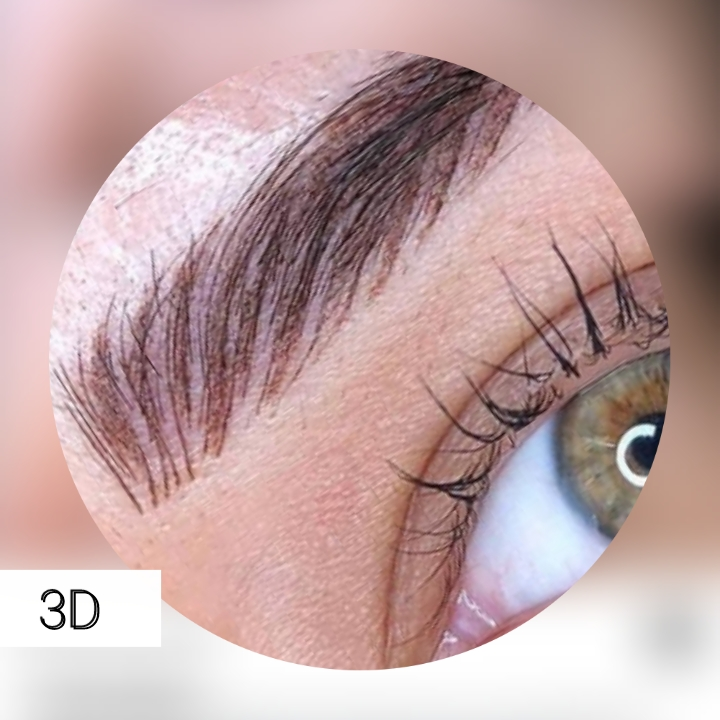
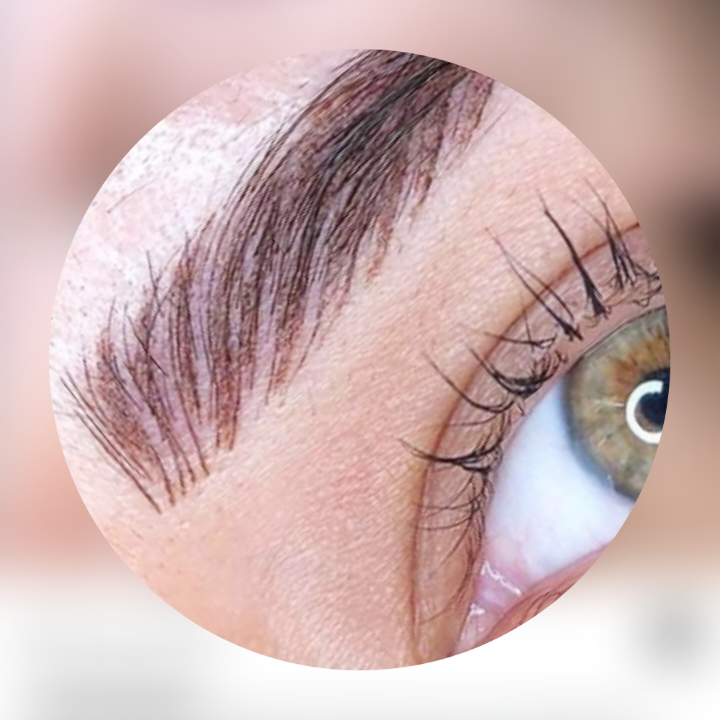
.

diff --git a/index.html b/index.html
@@ -102,9 +102,9 @@ height="0" width="0" style="display:none;visibility:hidden"></iframe></noscript>
       Devido a micropigmentação ser de extrema importância e responsabilidade, sendo fundamental a dedicação e especialização. Pois esse procedimento é delicado e necessita de conhecimento profundo. Além de modificar a aparência exterior do cliente, afetam seu emocional e autoestima. Sendo fundamental o cliente se sentir a vontade e confiante.   Atuo na área de beleza por volta de oito anos.</p>     
     <p>A estética vai muito mais além da beleza!</p>
   </div>
-  <div class="w3-row-padding w3-grayscale">
+  <div class="w3-row-padding">
     <div class="w3-col l3 m6 w3-margin-bottom">
-      <img src="./w3images/perfil_micropigmentacao.png" alt="Pamela Jacqueline" style="width:100%">
+      <img src="./w3images/perfil_micropigmentacao.jpg" alt="Pamela Jacqueline" style="width:100%">
       <h3>Pâmela Jacqueline</h3>
       <p class="w3-opacity">Artista</p>
       <p>Atuo na área de beleza por volta de oito anos. Sou Designer de Sobrancelhas, especialista em Micropigmentação.</p>
@@ -119,7 +119,7 @@ height="0" width="0" style="display:none;visibility:hidden"></iframe></noscript>
     <p>Em meio o excesso de informações que temos na internet , a  merchandising que apresenta nomes diversos para as mesmas técnicas para torná-las mais atrativas, acaba que fica poluído de informações e as clientes ficam perdidas, fica difícil entender e escolher o que realmente vocês querem!</p>
     <p>A micropigmentação cresce cada vez mais de uma forma acelerada e muitas novas técnicas estão sendo desenvolvidas, já a muito tempo saímos do básico que era a famosa sobrancelha "compacta" uma sobrancelha bem escura e bem preenchida. A sobrancelha “esfumada” ainda é muito usada hoje, mas vem sendo aperfeiçoada para um resultado mais natural,  sendo a mais requisitada hoje a "sobrancelha fio a fio".</p>
   </div>
-  <div class="w3-row-padding w3-grayscale">
+  <div class="w3-row-padding">
     <div class="w3-col l3 m6 w3-margin-bottom">
       <img src="./w3images/tecnicas/dermografo-microblading.jpg" alt="Micropigmentação" style="width:100%">
       <h3>Dermógrafo X Microblading</h3>
@@ -151,7 +151,7 @@ height="0" width="0" style="display:none;visibility:hidden"></iframe></noscript>
       <!--p><button class="w3-button w3-light-grey w3-block">Contact</button></p-->
     </div>
   </div>
-  <div class="w3-row-padding w3-grayscale">
+  <div class="w3-row-padding">
     <div class="w3-col l3 m6 w3-margin-bottom">
       <img src="./w3images/tecnicas/degrade-ombre.jpg" alt="Micropigmentação" style="width:100%">
       <h3>Degradê e Ombré</h3>
@@ -193,25 +193,25 @@ height="0" width="0" style="display:none;visibility:hidden"></iframe></noscript>
     <div class="w3-col l3 m6 w3-margin-bottom">
       <div class="w3-display-container">
         <div class="w3-display-topleft w3-black w3-padding">Projeto 1</div>
-        <img src="./w3images/projetos/1556666094050.jpg" alt="Projeto 1" style="width:100%" onclick="clickImageModal(this)">
+        <img src="./w3images/projetos/projeto-1.jpg" alt="Projeto 1" style="width:100%" onclick="clickImageModal(this)">
       </div>
     </div>
     <div class="w3-col l3 m6 w3-margin-bottom">
       <div class="w3-display-container">
         <div class="w3-display-topleft w3-black w3-padding">Projeto 2</div>
-        <img src="./w3images/projetos/1556668253432.jpg" alt="Projeto 2" style="width:100%" onclick="clickImageModal(this)">
+        <img src="./w3images/projetos/projeto-2.jpg" alt="Projeto 2" style="width:100%" onclick="clickImageModal(this)">
       </div>
     </div>
     <div class="w3-col l3 m6 w3-margin-bottom">
       <div class="w3-display-container">
         <div class="w3-display-topleft w3-black w3-padding">Projeto 3</div>
-        <img src="./w3images/projetos/1556804307464.jpg" alt="Projeto 3" style="width:100%" onclick="clickImageModal(this)">
+        <img src="./w3images/projetos/projeto-3.jpg" alt="Projeto 3" style="width:100%" onclick="clickImageModal(this)">
       </div>
     </div>
     <div class="w3-col l3 m6 w3-margin-bottom">
       <div class="w3-display-container">
-        <div class="w3-display-topleft w3-black w3-padding">Projeto 4</div>
-        <img src="./w3images/projetos/1556806602818.jpg" alt="Projeto 4" style="width:100%" onclick="clickImageModal(this)">
+        <div class="w3-display-topleft w3-black w3-padding">Outros Projetos</div>
+        <a href="projetos.html"><img src="./w3images/projetos/projeto-outros.jpg" alt="Projeto 4" style="width:100%"></a>
       </div>
     </div>
   </div>

diff --git a/projetos.html b/projetos.html
@@ -100,25 +100,25 @@ height="0" width="0" style="display:none;visibility:hidden"></iframe></noscript>
     <div class="w3-col l3 m6 w3-margin-bottom">
       <div class="w3-display-container">
         <div class="w3-display-topleft w3-black w3-padding">Projeto 1</div>
-        <img src="./w3images/projetos/1556666094050.jpg" alt="Projeto 1" style="width:100%" onclick="clickImageModal(this)">
+        <img src="./w3images/projetos/projeto-1.jpg" alt="Projeto 1" style="width:100%" onclick="clickImageModal(this)">
       </div>
     </div>
     <div class="w3-col l3 m6 w3-margin-bottom">
       <div class="w3-display-container">
         <div class="w3-display-topleft w3-black w3-padding">Projeto 2</div>
-        <img src="./w3images/projetos/1556668253432.jpg" alt="Projeto 2" style="width:100%" onclick="clickImageModal(this)">
+        <img src="./w3images/projetos/projeto-2.jpg" alt="Projeto 2" style="width:100%" onclick="clickImageModal(this)">
       </div>
     </div>
     <div class="w3-col l3 m6 w3-margin-bottom">
       <div class="w3-display-container">
         <div class="w3-display-topleft w3-black w3-padding">Projeto 3</div>
-        <img src="./w3images/projetos/1556804307464.jpg" alt="Projeto 3" style="width:100%" onclick="clickImageModal(this)">
+        <img src="./w3images/projetos/projeto-3.jpg" alt="Projeto 3" style="width:100%" onclick="clickImageModal(this)">
       </div>
     </div>
     <div class="w3-col l3 m6 w3-margin-bottom">
       <div class="w3-display-container">
         <div class="w3-display-topleft w3-black w3-padding">Projeto 4</div>
-        <img src="./w3images/projetos/1556806602818.jpg" alt="Projeto 4" style="width:100%" onclick="clickImageModal(this)">
+        <img src="./w3images/projetos/projeto-outros.jpg" alt="Projeto 4" style="width:100%" onclick="clickImageModal(this)">
       </div>
     </div>
   </div>

diff --git a/cuidados.html b/cuidados.html
@@ -34,7 +34,7 @@
   <div class="w3-bar w3-white w3-wide w3-padding w3-card">
     <a href="/#home" class="w3-bar-item w3-button w3-hide-small">Micropigmentação <b>PRO</b></a>
 
-   <!-- Float links to the right. Hide them on small screens -->
+    <!-- Float links to the right. Hide them on small screens -->
     <div class="w3-right w3-hide-small">
       <a href="/#home" class="w3-bar-item w3-button">Home</a>
       <a href="/#sobre" class="w3-bar-item w3-button">Sobre</a>
